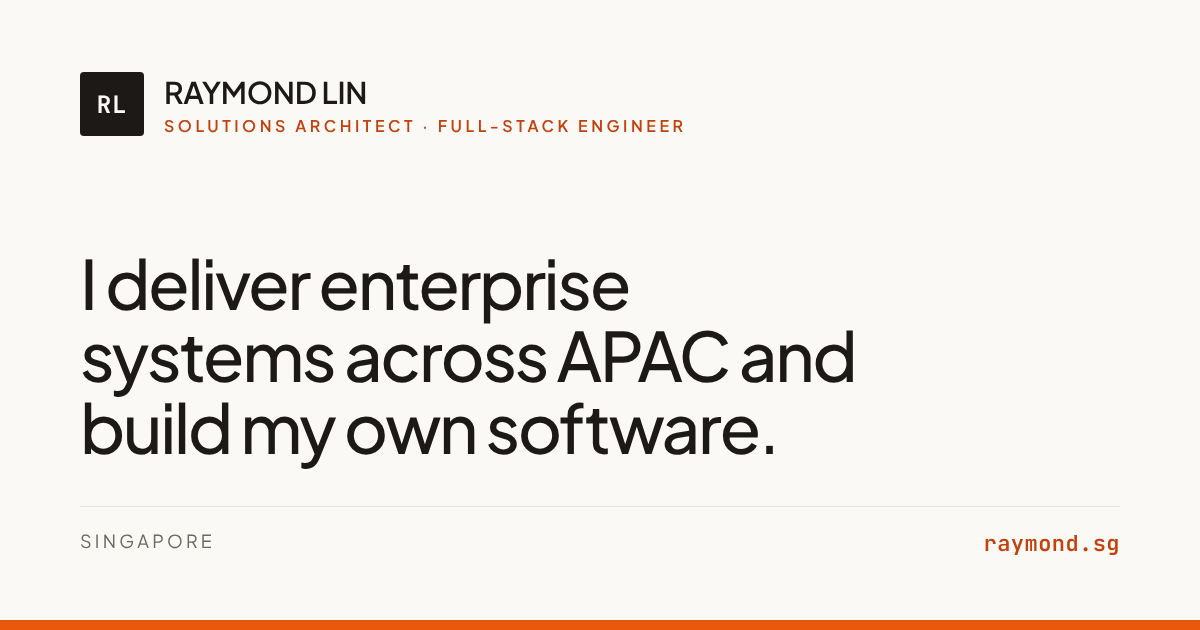
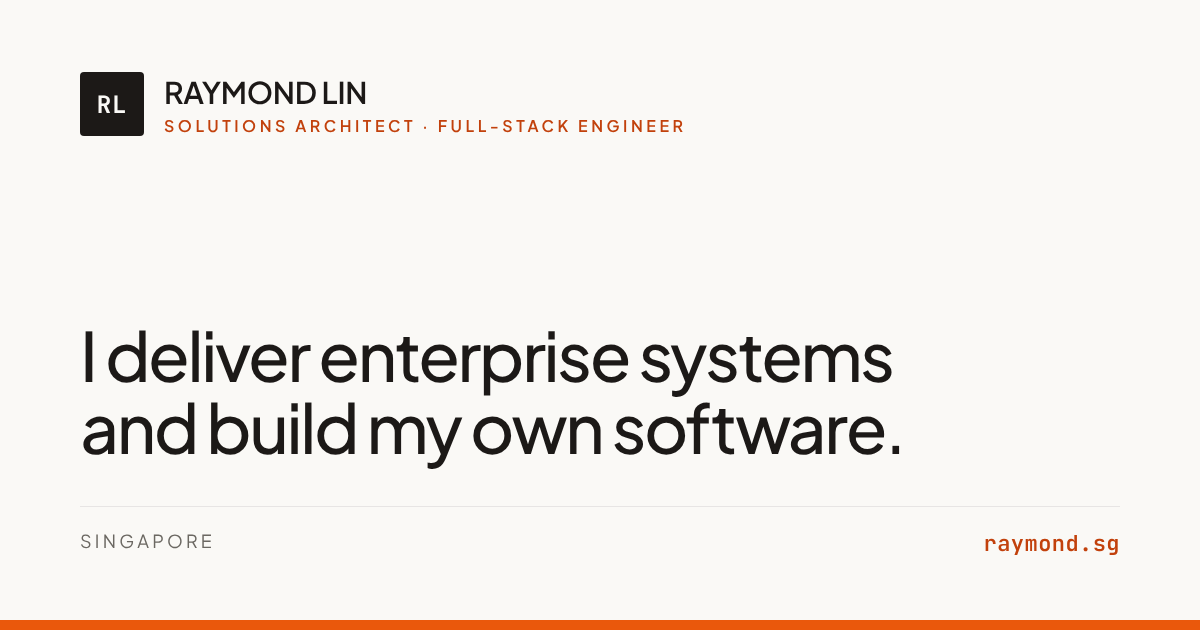
Shorter headline and intro; strength-first tools with shorter chips
- Headline: "I deliver enterprise systems and build my own software." (the
  intro already says Asia-Pacific); link preview text and share image
  updated.
- Intro paragraph 1 keeps platforms, vendor teams, delivery and budgets,
  and root cause in two sentences; paragraph 2 is one sentence.
- E-commerce card no longer states how many markets moved to Shopline.
- Tools: strongest first in Languages, Frontend and Backend & data;
  chips shortened ("Browser extensions (WXT)", "Supabase (Postgres)",
  "Cloudflare", "IAM", "PCI DSS"); "JavaScript (Node.js)" and "REST &
  event-driven APIs" split into JavaScript, Node.js, REST APIs and
  Event-driven design.

Claude-Session: https://claude.ai/code/session_019i5JAhHSXXS5qtV73q9BJR

Changed region(s): [[0.0617, 0.3921, 0.74, 0.754]]

diff --git a/src/data/tools.ts b/src/data/tools.ts
@@ -5,10 +5,10 @@ export const tools: ToolRow[] = [
   { label: 'Business systems', items: ['Salesforce CRM', 'Salesforce Service Cloud', 'Salesforce Marketing Cloud', 'Jira Service Management', 'Business Central', 'SAP Marketing Cloud', 'Coupa', 'DocuSign'] },
   { label: 'Commerce, CMS & payments', items: ['SAP Commerce Cloud', 'Shopline', 'Magento', 'Adobe Experience Manager', 'Drupal', 'WordPress', 'Stripe', 'PayPal', 'WorldPay'] },
   { label: 'AI, automation & BI', items: ['Microsoft 365 Copilot', 'Copilot agents', 'Claude Code', 'LLM integration', 'Power Automate', 'Power Apps', 'Power BI'] },
-  { label: 'Languages', items: ['TypeScript', 'JavaScript (Node.js)', 'Java', 'C#', 'PHP', 'Python', 'VB.NET', 'SQL', 'PowerShell'], mono: true },
-  { label: 'Frontend', items: ['React', 'Next.js', 'Astro', 'Vite', 'MDX', 'Browser extensions (WXT, Manifest V3)', 'HTML', 'CSS / Tailwind'] },
-  { label: 'Backend & data', items: ['ASP.NET', 'AWS Lambda', 'API Gateway', 'Supabase (Postgres + RLS)', 'DynamoDB', 'MySQL', 'MSSQL', 'REST & event-driven APIs', 'Google Maps API'] },
-  { label: 'Cloud & delivery', items: ['Git', 'AWS (serverless)', 'Google Cloud', 'Azure', 'Cloudflare (Workers, DNS)', 'Vercel', 'Docker', 'GitHub Actions', 'GitLab CI/CD', 'SonarQube (SAST)', 'Vitest', 'Playwright'] },
+  { label: 'Languages', items: ['TypeScript', 'JavaScript', 'SQL', 'PHP', 'Python', 'C#', 'Java', 'VB.NET', 'PowerShell'], mono: true },
+  { label: 'Frontend', items: ['React', 'Next.js', 'Astro', 'CSS / Tailwind', 'Vite', 'Browser extensions (WXT)', 'MDX', 'HTML'] },
+  { label: 'Backend & data', items: ['Node.js', 'AWS Lambda', 'API Gateway', 'Supabase (Postgres)', 'DynamoDB', 'REST APIs', 'Event-driven design', 'Google Maps API', 'MySQL', 'MSSQL', 'ASP.NET'] },
+  { label: 'Cloud & delivery', items: ['Git', 'AWS (serverless)', 'Google Cloud', 'Azure', 'Cloudflare', 'Vercel', 'Docker', 'GitHub Actions', 'GitLab CI/CD', 'SonarQube (SAST)', 'Vitest', 'Playwright'] },
   { label: 'Analytics & SEO', items: ['GA4', 'Google Tag Manager', 'Microsoft Clarity', 'Google Search Console', 'Bing Webmaster Tools', 'SEO'] },
-  { label: 'Security & compliance', items: ['DNS', 'SSL/TLS', 'WAF', 'OWASP Top 10', 'IAM and access management', 'PCI DSS (payment reviews)', 'PDPA', 'GDPR'] },
+  { label: 'Security & compliance', items: ['DNS', 'SSL/TLS', 'WAF', 'OWASP Top 10', 'IAM', 'PCI DSS', 'PDPA', 'GDPR'] },
 ];

diff --git a/tests/smoke.spec.ts b/tests/smoke.spec.ts
@@ -8,7 +8,7 @@ test.beforeEach(async ({ page }) => {
 
 test('home page renders the key sections', async ({ page }) => {
   await expect(page).toHaveTitle(/Raymond Lin/);
-  await expect(page.locator('h1')).toContainText('I deliver enterprise systems across APAC');
+  await expect(page.locator('h1')).toContainText('I deliver enterprise systems and build my own software');
   for (const id of ['enterprise', 'projects', 'tools', 'contact']) await expect(page.locator(`#${id}`)).toBeAttached();
   await expect(page.locator('article.work-card')).toHaveCount(6);
 });

diff --git a/src/data/site.ts b/src/data/site.ts
@@ -6,7 +6,7 @@ export const site = {
   title: 'Raymond Lin, Solutions Architect & Full-stack Engineer',
   description:
     'Raymond Lin, Singapore. Enterprise platforms and vendor teams across Asia-Pacific, plus web apps, browser extensions and Windows tools he builds and runs himself.',
-  ogDescription: 'I deliver enterprise systems across APAC and build my own software.',
+  ogDescription: 'I deliver enterprise systems and build my own software.',
 };
 
 /** Round a count down to a figure that stays true as it grows: 836,024 -> "800,000+". */

diff --git a/src/data/enterprise.ts b/src/data/enterprise.ts
@@ -23,7 +23,7 @@ export const enterprise: EnterpriseItem[] = [
     category: 'E-commerce',
     title: 'Moving an online store to a new platform',
     summary:
-      'A direct-to-consumer store on SAP Commerce Cloud, with one market moved to Shopline and its integrations redesigned.',
+      'A direct-to-consumer store moved from SAP Commerce Cloud to Shopline, with its integrations redesigned.',
     role: 'Set up SAP Commerce with the vendor, then led the migration',
     tools: 'SAP Commerce Cloud → Shopline',
   },
